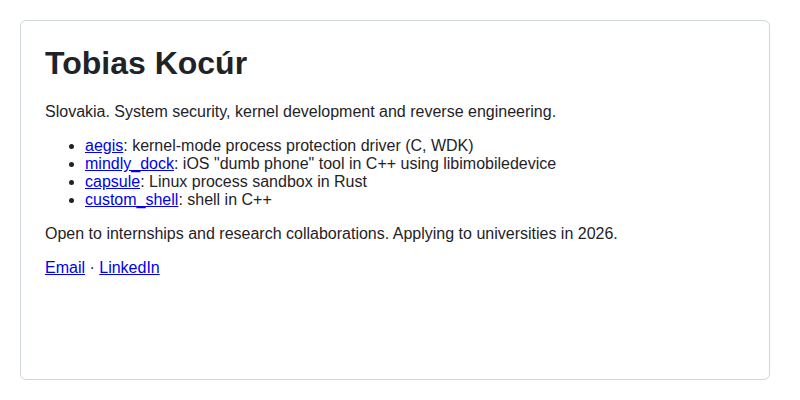
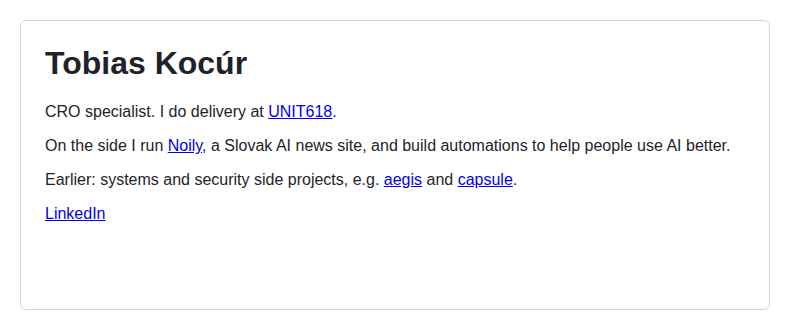
README: current role, Noily, drop contact e-mail and applications

Changed region(s): [[0.0312, 0.1212, 0.9062, 0.6061], [0.0312, 0.6364, 0.2188, 0.697]]

diff --git a/README.md b/README.md
@@ -1,12 +1,9 @@
 # Tobias Kocúr
 
-Slovakia. System security, kernel development and reverse engineering.
+CRO specialist. I do delivery at [UNIT618](https://unit618.com).
 
-- [aegis](https://github.com/tobiaskocur/aegis): kernel-mode process protection driver (C, WDK)
-- [mindly_dock](https://github.com/tobiaskocur/mindly_dock): iOS "dumb phone" tool in C++ using libimobiledevice
-- [capsule](https://github.com/tobiaskocur/capsule): Linux process sandbox in Rust
-- [custom_shell](https://github.com/tobiaskocur/custom_shell): shell in C++
+On the side I run [Noily](https://noily.eu), a Slovak AI news site, and build automations to help people use AI better.
 
-Open to internships and research collaborations. Applying to universities in 2026.
+Earlier: systems and security side projects, e.g. [aegis](https://github.com/tobiaskocur/aegis) and [capsule](https://github.com/tobiaskocur/capsule).
 
-[Email](mailto:crybybusiness@gmail.com) · [LinkedIn](https://www.linkedin.com/in/tobias-kocúr-3b18b63b5)
+[LinkedIn](https://www.linkedin.com/in/tobias-kocúr-3b18b63b5)
